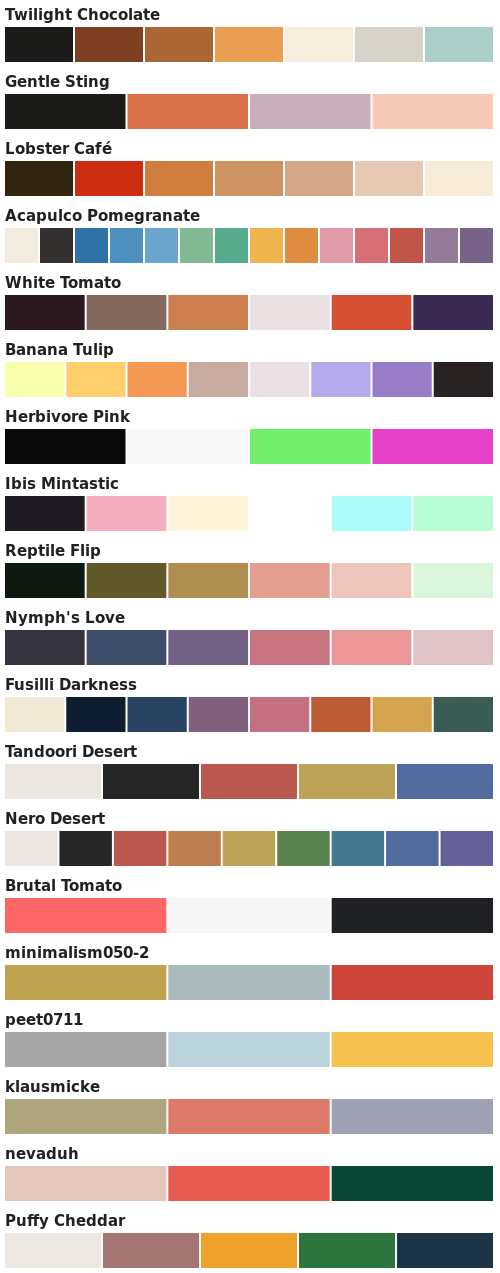
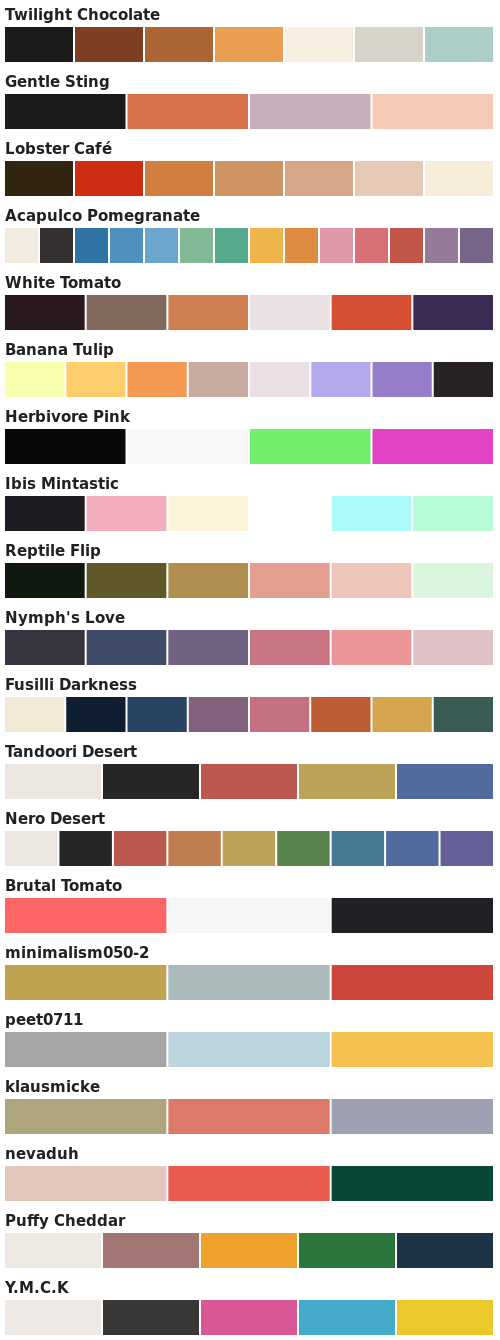
meodai published a site update

diff --git a/palettes.js b/palettes.js
@@ -3,7 +3,7 @@
   typeof define === 'function' && define.amd ? define(['exports'], factory) :
   (global = typeof globalThis !== 'undefined' ? globalThis : global || self, factory(global.colorPalettes = {}));
 })(this, (function (exports) { 'use strict';
-  const palettes = [{"name":"Twilight Chocolate","colors":["#1b1b19","#803e23","#ac6633","#ea9e52","#f7eedf","#d7d3c8","#aacfc8"]},{"name":"Gentle Sting","colors":["#1b1b19","#da704a","#c8afbc","#f6cab4"]},{"name":"Lobster Café","colors":["#312512","#cd2d10","#d07e40","#ce9464","#d6a786","#e5c9b5","#f7ebda"]},{"colors":["#f2ebdf","#353130","#2f72a6","#4e90c0","#6ca6ce","#80b994","#55ab8c","#f0b44c","#dd8c40","#e099a8","#d76f76","#c35448","#947b98","#786488"],"name":"Acapulco Pomegranate"},{"colors":["#29181e","#81695d","#ce7f50","#ebe1e2","#d74f32","#3b2a54"],"name":"White Tomato"},{"colors":["#f8ffad","#ffcf6e","#f49854","#c7aba1","#ecdfe3","#b4a9ec","#977cc7","#292222"],"name":"Banana Tulip"},{"colors":["#090909","#f8f8f8","#71ee6b","#e541c7"],"name":"Herbivore Pink"},{"colors":["#1e1b22","#f3aebd","#fdf4da","#ffffff","#abfcf8","#b9fdd6"],"name":"Ibis Mintastic"},{"colors":["#0f1910","#615829","#af8e4f","#e39e90","#edc5bb","#dbf5dc"],"name":"Reptile Flip"},{"colors":["#36343f","#3e4c69","#726382","#c97481","#ec9699","#dfc3c7"],"name":"Nymph's Love"},{"colors":["#f1e9d6","#0f1d30","#284462","#82617c","#c47080","#bc5b34","#d4a44f","#395d54"],"name":"Fusilli Darkness"},{"author":"ippsketch","colors":["#ebe7e0","#262626","#bc594e","#bca357","#516b9e"],"name":"Tandoori Desert"},{"author":"ippsketch","colors":["#ebe7e0","#262626","#bc594e","#bf7e4f","#bca357","#5a844d","#467991","#516b9e","#656198"],"name":"Nero Desert"},{"name":"Brutal Tomato","colors":["#fe6666","#f6f6f6","#202125"]},{"name":"foundcolor.co","palettes":[{"name":"minimalism050-2","colors":[{"value":"#bfa350","some":"meta information"},{"value":"#abbbbb","some":"meta information 2"},{"value":"#ce453c","some":"meta information 3"}]},{"name":"peet0711","colors":["#a5a5a5","#bbd4db","#f6c14f"]},{"name":"klausmicke","colors":["#aea57c","#dd7969","#9ea1b2"]},{"name":"nevaduh","colors":["#e3c7bc","#e85a4e","#0a4737"]}]},{"colors":["#ede8e1","#a37673","#eea22c","#2c763d","#1c3445"],"name":"Puffy Cheddar"}]
+  const palettes = [{"name":"Twilight Chocolate","colors":["#1b1b19","#803e23","#ac6633","#ea9e52","#f7eedf","#d7d3c8","#aacfc8"]},{"name":"Gentle Sting","colors":["#1b1b19","#da704a","#c8afbc","#f6cab4"]},{"name":"Lobster Café","colors":["#312512","#cd2d10","#d07e40","#ce9464","#d6a786","#e5c9b5","#f7ebda"]},{"colors":["#f2ebdf","#353130","#2f72a6","#4e90c0","#6ca6ce","#80b994","#55ab8c","#f0b44c","#dd8c40","#e099a8","#d76f76","#c35448","#947b98","#786488"],"name":"Acapulco Pomegranate"},{"colors":["#29181e","#81695d","#ce7f50","#ebe1e2","#d74f32","#3b2a54"],"name":"White Tomato"},{"colors":["#f8ffad","#ffcf6e","#f49854","#c7aba1","#ecdfe3","#b4a9ec","#977cc7","#292222"],"name":"Banana Tulip"},{"colors":["#090909","#f8f8f8","#71ee6b","#e541c7"],"name":"Herbivore Pink"},{"colors":["#1e1b22","#f3aebd","#fdf4da","#ffffff","#abfcf8","#b9fdd6"],"name":"Ibis Mintastic"},{"colors":["#0f1910","#615829","#af8e4f","#e39e90","#edc5bb","#dbf5dc"],"name":"Reptile Flip"},{"colors":["#36343f","#3e4c69","#726382","#c97481","#ec9699","#dfc3c7"],"name":"Nymph's Love"},{"colors":["#f1e9d6","#0f1d30","#284462","#82617c","#c47080","#bc5b34","#d4a44f","#395d54"],"name":"Fusilli Darkness"},{"author":"ippsketch","colors":["#ebe7e0","#262626","#bc594e","#bca357","#516b9e"],"name":"Tandoori Desert"},{"author":"ippsketch","colors":["#ebe7e0","#262626","#bc594e","#bf7e4f","#bca357","#5a844d","#467991","#516b9e","#656198"],"name":"Nero Desert"},{"name":"Brutal Tomato","colors":["#fe6666","#f6f6f6","#202125"]},{"name":"foundcolor.co","palettes":[{"name":"minimalism050-2","colors":[{"value":"#bfa350","some":"meta information"},{"value":"#abbbbb","some":"meta information 2"},{"value":"#ce453c","some":"meta information 3"}]},{"name":"peet0711","colors":["#a5a5a5","#bbd4db","#f6c14f"]},{"name":"klausmicke","colors":["#aea57c","#dd7969","#9ea1b2"]},{"name":"nevaduh","colors":["#e3c7bc","#e85a4e","#0a4737"]}]},{"colors":["#ede8e1","#a37673","#eea22c","#2c763d","#1c3445"],"name":"Puffy Cheddar"},{"name":"Y.M.C.K","colors":["#eee9e5","#383736","#d85794","#45abcb","#ebc92a"]}]
 
   /**
    * @param {Array} palettes

diff --git a/palettes.esm.js b/palettes.esm.js
@@ -1,4 +1,4 @@
-const palettes = [{"name":"Twilight Chocolate","colors":["#1b1b19","#803e23","#ac6633","#ea9e52","#f7eedf","#d7d3c8","#aacfc8"]},{"name":"Gentle Sting","colors":["#1b1b19","#da704a","#c8afbc","#f6cab4"]},{"name":"Lobster Café","colors":["#312512","#cd2d10","#d07e40","#ce9464","#d6a786","#e5c9b5","#f7ebda"]},{"colors":["#f2ebdf","#353130","#2f72a6","#4e90c0","#6ca6ce","#80b994","#55ab8c","#f0b44c","#dd8c40","#e099a8","#d76f76","#c35448","#947b98","#786488"],"name":"Acapulco Pomegranate"},{"colors":["#29181e","#81695d","#ce7f50","#ebe1e2","#d74f32","#3b2a54"],"name":"White Tomato"},{"colors":["#f8ffad","#ffcf6e","#f49854","#c7aba1","#ecdfe3","#b4a9ec","#977cc7","#292222"],"name":"Banana Tulip"},{"colors":["#090909","#f8f8f8","#71ee6b","#e541c7"],"name":"Herbivore Pink"},{"colors":["#1e1b22","#f3aebd","#fdf4da","#ffffff","#abfcf8","#b9fdd6"],"name":"Ibis Mintastic"},{"colors":["#0f1910","#615829","#af8e4f","#e39e90","#edc5bb","#dbf5dc"],"name":"Reptile Flip"},{"colors":["#36343f","#3e4c69","#726382","#c97481","#ec9699","#dfc3c7"],"name":"Nymph's Love"},{"colors":["#f1e9d6","#0f1d30","#284462","#82617c","#c47080","#bc5b34","#d4a44f","#395d54"],"name":"Fusilli Darkness"},{"author":"ippsketch","colors":["#ebe7e0","#262626","#bc594e","#bca357","#516b9e"],"name":"Tandoori Desert"},{"author":"ippsketch","colors":["#ebe7e0","#262626","#bc594e","#bf7e4f","#bca357","#5a844d","#467991","#516b9e","#656198"],"name":"Nero Desert"},{"name":"Brutal Tomato","colors":["#fe6666","#f6f6f6","#202125"]},{"name":"foundcolor.co","palettes":[{"name":"minimalism050-2","colors":[{"value":"#bfa350","some":"meta information"},{"value":"#abbbbb","some":"meta information 2"},{"value":"#ce453c","some":"meta information 3"}]},{"name":"peet0711","colors":["#a5a5a5","#bbd4db","#f6c14f"]},{"name":"klausmicke","colors":["#aea57c","#dd7969","#9ea1b2"]},{"name":"nevaduh","colors":["#e3c7bc","#e85a4e","#0a4737"]}]},{"colors":["#ede8e1","#a37673","#eea22c","#2c763d","#1c3445"],"name":"Puffy Cheddar"}]
+const palettes = [{"name":"Twilight Chocolate","colors":["#1b1b19","#803e23","#ac6633","#ea9e52","#f7eedf","#d7d3c8","#aacfc8"]},{"name":"Gentle Sting","colors":["#1b1b19","#da704a","#c8afbc","#f6cab4"]},{"name":"Lobster Café","colors":["#312512","#cd2d10","#d07e40","#ce9464","#d6a786","#e5c9b5","#f7ebda"]},{"colors":["#f2ebdf","#353130","#2f72a6","#4e90c0","#6ca6ce","#80b994","#55ab8c","#f0b44c","#dd8c40","#e099a8","#d76f76","#c35448","#947b98","#786488"],"name":"Acapulco Pomegranate"},{"colors":["#29181e","#81695d","#ce7f50","#ebe1e2","#d74f32","#3b2a54"],"name":"White Tomato"},{"colors":["#f8ffad","#ffcf6e","#f49854","#c7aba1","#ecdfe3","#b4a9ec","#977cc7","#292222"],"name":"Banana Tulip"},{"colors":["#090909","#f8f8f8","#71ee6b","#e541c7"],"name":"Herbivore Pink"},{"colors":["#1e1b22","#f3aebd","#fdf4da","#ffffff","#abfcf8","#b9fdd6"],"name":"Ibis Mintastic"},{"colors":["#0f1910","#615829","#af8e4f","#e39e90","#edc5bb","#dbf5dc"],"name":"Reptile Flip"},{"colors":["#36343f","#3e4c69","#726382","#c97481","#ec9699","#dfc3c7"],"name":"Nymph's Love"},{"colors":["#f1e9d6","#0f1d30","#284462","#82617c","#c47080","#bc5b34","#d4a44f","#395d54"],"name":"Fusilli Darkness"},{"author":"ippsketch","colors":["#ebe7e0","#262626","#bc594e","#bca357","#516b9e"],"name":"Tandoori Desert"},{"author":"ippsketch","colors":["#ebe7e0","#262626","#bc594e","#bf7e4f","#bca357","#5a844d","#467991","#516b9e","#656198"],"name":"Nero Desert"},{"name":"Brutal Tomato","colors":["#fe6666","#f6f6f6","#202125"]},{"name":"foundcolor.co","palettes":[{"name":"minimalism050-2","colors":[{"value":"#bfa350","some":"meta information"},{"value":"#abbbbb","some":"meta information 2"},{"value":"#ce453c","some":"meta information 3"}]},{"name":"peet0711","colors":["#a5a5a5","#bbd4db","#f6c14f"]},{"name":"klausmicke","colors":["#aea57c","#dd7969","#9ea1b2"]},{"name":"nevaduh","colors":["#e3c7bc","#e85a4e","#0a4737"]}]},{"colors":["#ede8e1","#a37673","#eea22c","#2c763d","#1c3445"],"name":"Puffy Cheddar"},{"name":"Y.M.C.K","colors":["#eee9e5","#383736","#d85794","#45abcb","#ebc92a"]}]
 
 /**
  * @param {Array} palettes
